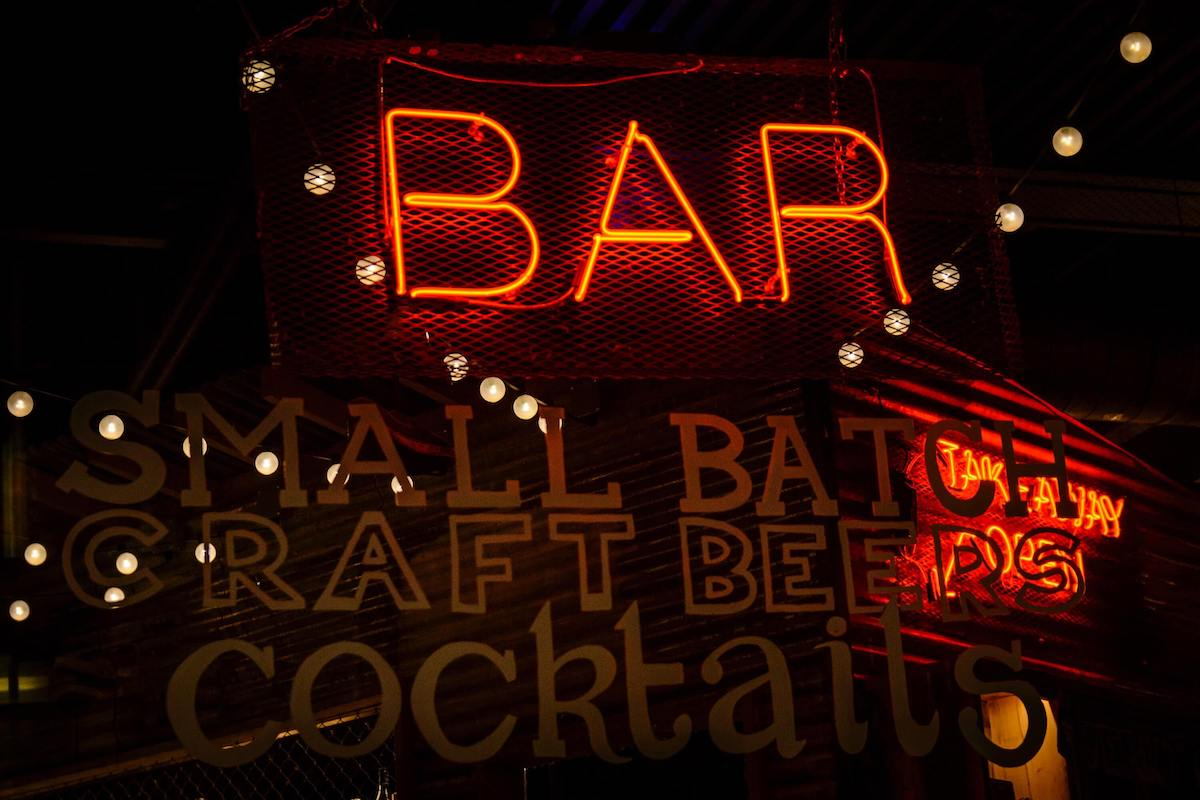
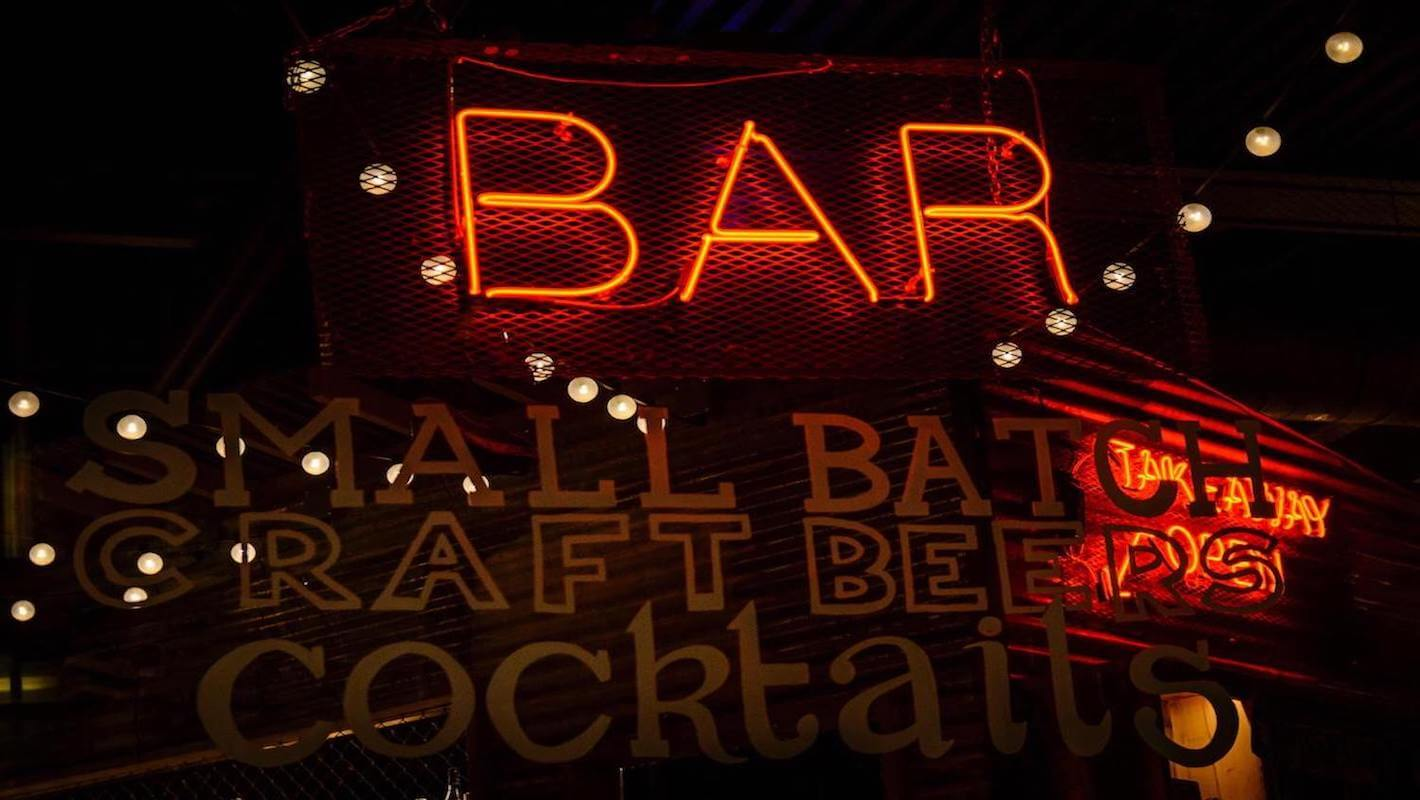
スライド画像を三枚から四枚に変更、サイズの圧縮及びサイズ調整済み画像は後ほど変更も可。

diff --git a/index.html b/index.html
@@ -13,10 +13,10 @@
 <body>
     <div class="swiper" id="swiper06">
         <div class="swiper-wrapper">
-            <div class="swiper-slide"><img src="./assets/img/restrant.jpg" alt=""></div>
-            <div class="swiper-slide"><img src="./assets/img/instajenic.jpg" alt=""></div>
-            
-            <div class="swiper-slide" data-swiper-autoplay="6000"><img src="./assets/img/cafe.jpg" alt=""></div>
+            <div class="swiper-slide"><img src="./assets/img/resturant.jpg" alt=""></div>
+            <div class="swiper-slide"><img src="./assets/img/cafe.jpg" alt=""></div>
+            <div class="swiper-slide"><img src="./assets/img/bar.jpg" alt=""></div>
+            <div class="swiper-slide" data-swiper-autoplay="6000"><img src="./assets/img/instajenic.jpg" alt=""></div>
         </div>
         <div class="swiper-button-prev swiper-button-white"></div>
         <div class="swiper-button-next swiper-button-white"></div>
